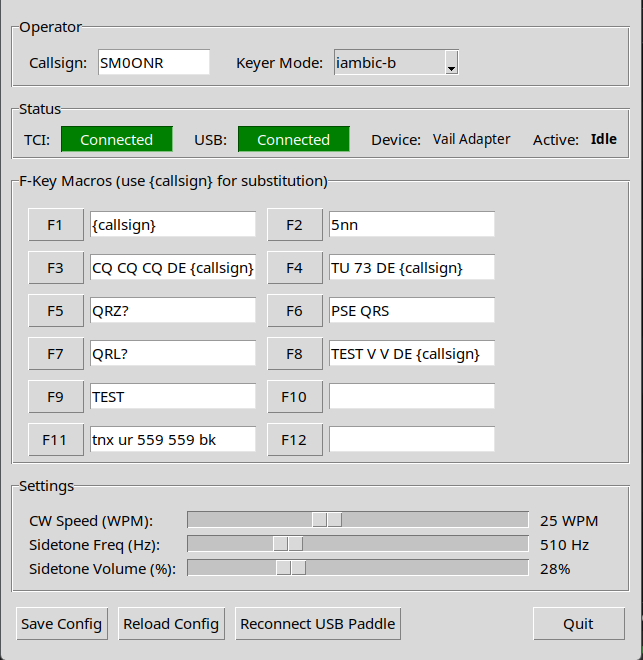
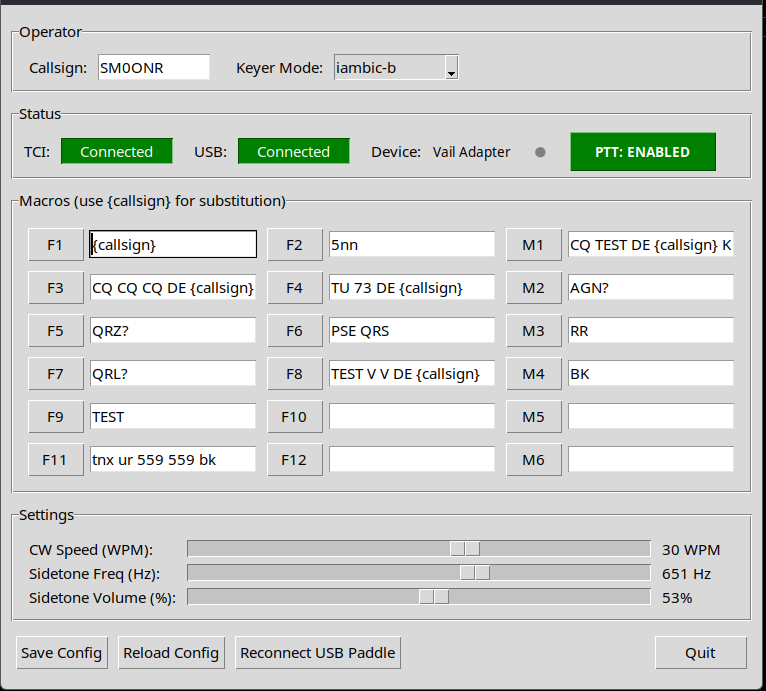
chore: Update version to 0.2.1 and adjust GUI window geometry settings

Changed region(s): [[0.0, 0.0, 1.0, 1.0], [0.0, 0.9091, 0.6221, 1.0]]

diff --git a/gui_window.py b/gui_window.py
@@ -37,7 +37,7 @@ class TkinterGUI:
         self.loop = loop
         self.root = tk.Tk()
         self.root.title(f"TCI CW Controller {get_version_string()}")
-        self.root.geometry("780x680")
+        # self.root.geometry("780x680")
         
         # Configuration cache (edited in memory, saved on button)
         self.config = controller.config.copy()

diff --git a/version.py b/version.py
@@ -3,8 +3,8 @@
 Version information for TCI CW Controller
 """
 
-__version__ = "0.2.0"
-__build_date__ = "2026-01-22"
+__version__ = "0.2.1"
+__build_date__ = "2026-01-24"
 __author__ = "SM0ONR"
 __description__ = "TCI CW Controller - Morse code keyer for ExpertSDR3"
 
